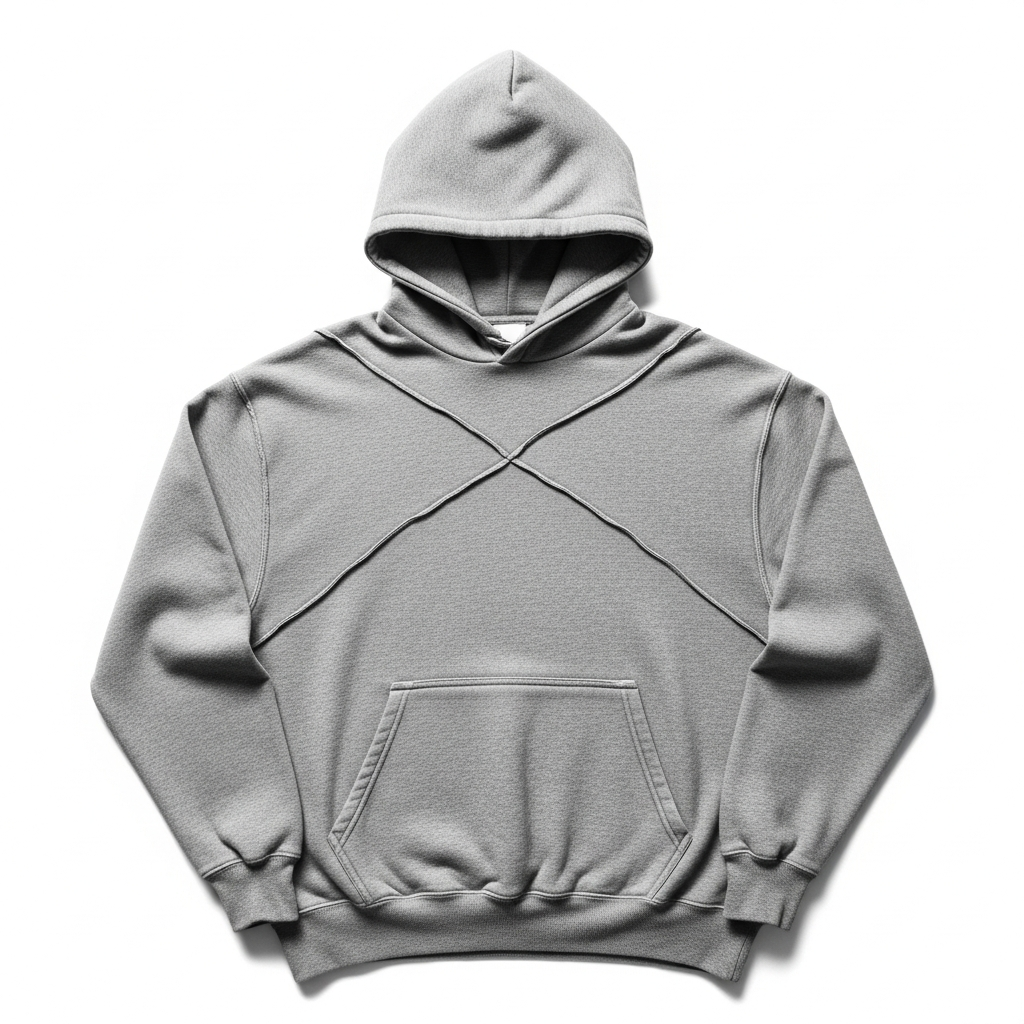
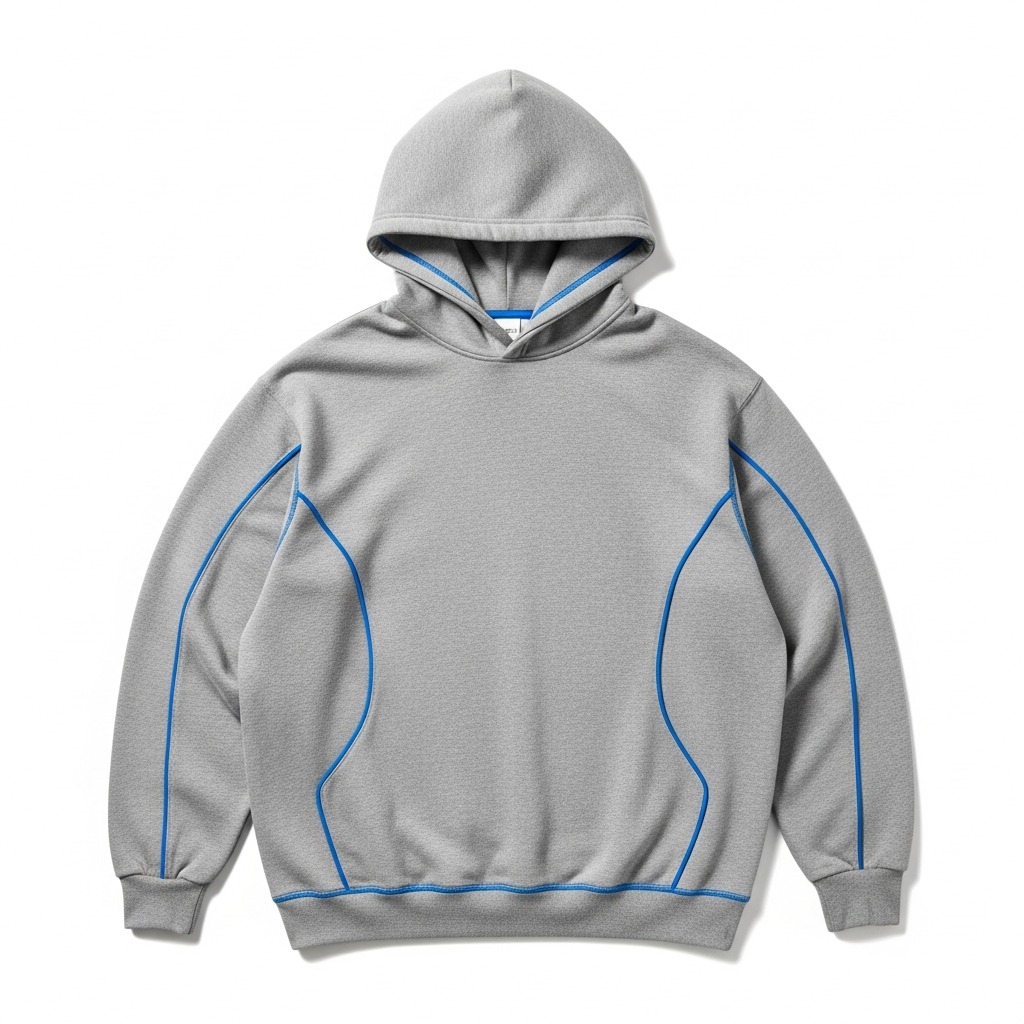
Update hoodie images and product details for better presentation
Update product images, gallery mappings, and descriptions for hoodies, and reconfigure email service to use GMX.

Replit-Commit-Author: Agent
Replit-Commit-Session-Id: 1858d894-2232-4f05-91df-3b21493520c4
Replit-Commit-Checkpoint-Type: full_checkpoint
Replit-Commit-Event-Id: 03ac5dda-179c-44ac-b400-c54a92280f35
Replit-Commit-Screenshot-Url: https://storage.googleapis.com/screenshot-production-us-central1/7c7e07a1-9081-40fe-ace0-2c54f47d57f2/1858d894-2232-4f05-91df-3b21493520c4/CJpLbyZ
Replit-Helium-Checkpoint-Created: true

Changed region(s): [[0.0625, 0.0312, 0.9375, 1.0]]

diff --git a/artifacts/xf-store/src/data/products.ts b/artifacts/xf-store/src/data/products.ts
@@ -17,60 +17,54 @@ const relaxedTeeGallery = {
   white: ["/images/product-tee-relaxed-white.png", "/images/product-tee-relaxed-white-model.png"],
 };
 
-// XF Oversize Hoodie — BLANK/PLAIN (own flat/folded images)
+// XF Oversize Hoodie — BLANK/PLAIN
 const oversizeHoodieGallery = {
   black: [
     "/images/product-hoodie-oversize-black.png",
     "/images/product-hoodie-oversize-black-flat.png",
-    "/images/product-hoodie-oversize-black-folded.png",
+    "/images/product-hoodie-oversize-black-model.png",
   ],
   grey: [
     "/images/product-hoodie-oversize-grey.png",
     "/images/product-hoodie-oversize-grey-flat.png",
-    "/images/product-hoodie-oversize-black-folded.png",
+    "/images/product-hoodie-oversize-black-model.png",
   ],
   white: [
     "/images/product-hoodie-oversize-white.png",
     "/images/product-hoodie-oversize-white-flat.png",
-    "/images/product-hoodie-oversize-black-folded.png",
+    "/images/product-hoodie-oversize-black-model.png",
   ],
 };
 
-// XF Oversized Hoodie — X-PANEL SEAM DESIGN (formerly Boxy) — uses original images
+// XF Oversized Hoodie (Design) — blue piping seam lines
 const oversizedHoodieGallery = {
   black: [
-    "/images/product-hoodie-black.png",
-    "/images/product-hoodie-black-flat.png",
-    "/images/product-hoodie-black-folded.png",
+    "/images/product-hoodie-design-black.png",
+    "/images/product-hoodie-design-black-model.png",
   ],
   grey: [
-    "/images/product-hoodie-grey.png",
-    "/images/product-hoodie-grey-flat.png",
-    "/images/product-hoodie-grey-folded.png",
+    "/images/product-hoodie-design-grey.png",
+    "/images/product-hoodie-design-black-model.png",
   ],
   white: [
-    "/images/product-hoodie-white.png",
-    "/images/product-hoodie-white-flat.png",
-    "/images/product-hoodie-white-folded.png",
+    "/images/product-hoodie-design-white.png",
+    "/images/product-hoodie-design-black-model.png",
   ],
 };
 
-// XF Hoodie — DESIGN (formerly Cropped) — own flat images
+// XF Hoodie — blue piping seam lines, regular fit
 const xfHoodieGallery = {
   black: [
     "/images/product-hoodie-xf-black.png",
-    "/images/product-hoodie-xf-black-flat.png",
-    "/images/product-hoodie-black-folded.png",
+    "/images/product-hoodie-xf-black-model.png",
   ],
   grey: [
     "/images/product-hoodie-xf-grey.png",
-    "/images/product-hoodie-xf-grey-flat.png",
-    "/images/product-hoodie-grey-folded.png",
+    "/images/product-hoodie-xf-black-model.png",
   ],
   white: [
     "/images/product-hoodie-xf-white.png",
-    "/images/product-hoodie-xf-white-flat.png",
-    "/images/product-hoodie-white-folded.png",
+    "/images/product-hoodie-xf-black-model.png",
   ],
 };
 
@@ -146,9 +140,9 @@ function oversizeHoodieColors() {
 
 function oversizedHoodieColors() {
   return [
-    { name: "Black", value: "#1a1a1a", image: "/images/product-hoodie-black.png", gallery: oversizedHoodieGallery.black },
-    { name: "Grey",  value: "#888888", image: "/images/product-hoodie-grey.png",  gallery: oversizedHoodieGallery.grey  },
-    { name: "White", value: "#f5f5f5", image: "/images/product-hoodie-white.png", gallery: oversizedHoodieGallery.white },
+    { name: "Black", value: "#1a1a1a", image: "/images/product-hoodie-design-black.png", gallery: oversizedHoodieGallery.black },
+    { name: "Grey",  value: "#888888", image: "/images/product-hoodie-design-grey.png",  gallery: oversizedHoodieGallery.grey  },
+    { name: "White", value: "#f5f5f5", image: "/images/product-hoodie-design-white.png", gallery: oversizedHoodieGallery.white },
   ];
 }
 
@@ -228,7 +222,7 @@ export const products = [
     category: "hoodie",
     price: 60,
     description: "Oversized Fit. Big and roomy — pure streetwear statement. Signature X-seam panel detail. Heavy Cotton. Premium Quality.",
-    image: "/images/product-hoodie-black.png",
+    image: "/images/product-hoodie-design-black.png",
     sizes: ["S", "M", "L", "XL"],
     colors: oversizedHoodieColors(),
   },

diff --git a/artifacts/api-server/src/routes/email.ts b/artifacts/api-server/src/routes/email.ts
@@ -3,18 +3,18 @@ import nodemailer from "nodemailer";
 
 const router = Router();
 
-const BREVO_LOGIN = process.env.BREVO_LOGIN || "xfclothing@gmx.de";
-const BREVO_SMTP_KEY = process.env.BREVO_SMTP_KEY || "";
+const GMX_USER = "xfclothing@gmx.de";
+const GMX_PASS = process.env.GMX_PASSWORD || "";
 
 const STAFF_EMAILS = ["xfclothing@gmx.de", "xaviermalucha@gmail.com"];
-const FROM = `XF Clothing <${BREVO_LOGIN}>`;
+const FROM = `XF Clothing <${GMX_USER}>`;
 
 function createTransport() {
   return nodemailer.createTransport({
-    host: "smtp-relay.brevo.com",
+    host: "mail.gmx.net",
     port: 587,
     secure: false,
-    auth: { user: BREVO_LOGIN, pass: BREVO_SMTP_KEY },
+    auth: { user: GMX_USER, pass: GMX_PASS },
   });
 }
 
